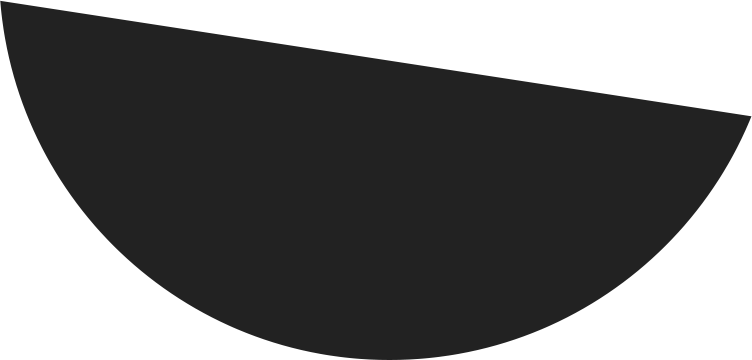
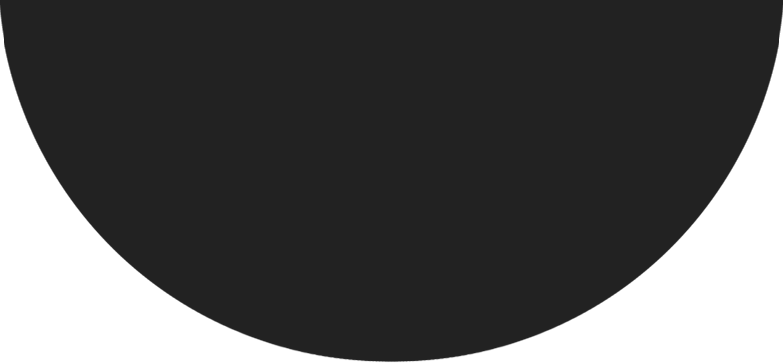
ie8 circle img fix

diff --git a/css/style.css b/css/style.css
@@ -280,7 +280,6 @@ button:focus,
 	padding-bottom: 135px;
 }
 .kc-register .ba-container img {
-	padding-top: 30px;
 	padding-bottom: 35px;
 }
 .kc-register .kc-byline {
